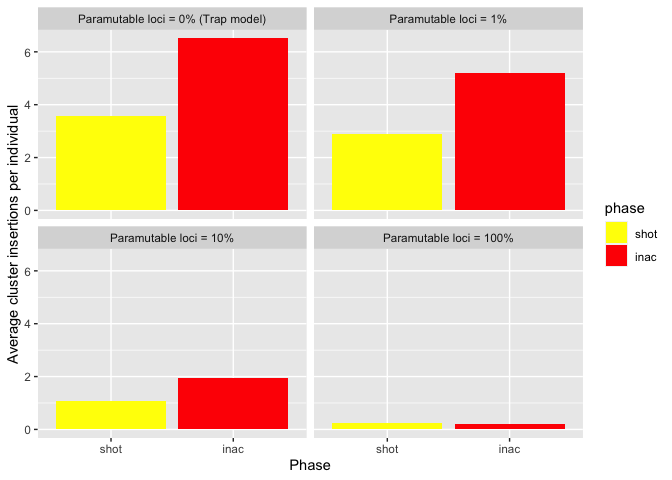
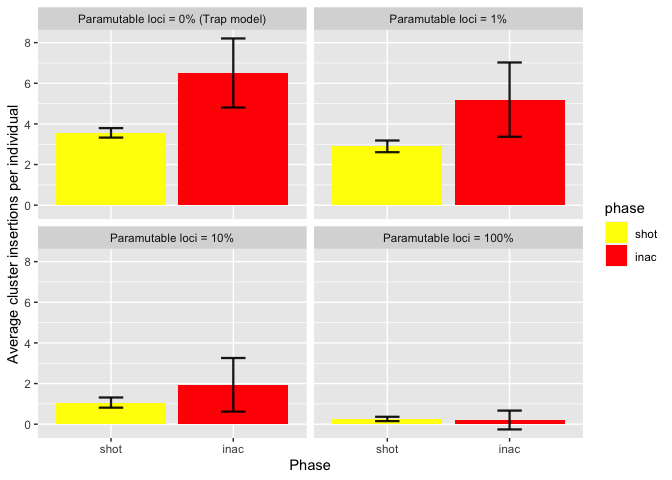
Add files via upload

diff --git a/Simulation/2022_08_24_Simulation_1_2_Phases.md b/Simulation/2022_08_24_Simulation_1_2_Phases.md
@@ -91,9 +91,15 @@ clus_ins <- aggregate(x = df2$fwcli,
                       FUN = "mean")
 names(clus_ins) <- c("phase", "sampleid", "fraccli")
 
+clus_ins_sd <- aggregate(x = df2$fwcli,
+                      by = list(df2$phase, df2$sampleid),
+                      FUN = "sd")
+names(clus_ins_sd) <- c("phase", "sampleid", "sd")
+
 
 g <- ggplot(clus_ins, aes(x=phase, y=fraccli, fill = phase)) + 
   geom_bar(stat = "identity") +
+  geom_errorbar( aes(x=phase, ymin=fraccli-clus_ins_sd$sd, ymax=fraccli+clus_ins_sd$sd), width=0.2, colour="black", alpha=0.9, size=0.8)+
   ylab("Fraction of individuals with a cluster insertion")+
   xlab("Phase")+
   scale_fill_manual(values = c("yellow", "red"))+
@@ -114,9 +120,14 @@ clus_ins_2 <- aggregate(x = df2$avcli,
                       FUN = "mean")
 names(clus_ins_2) <- c("phase", "sampleid", "avcli")
 
+clus_ins_sd_2 <- aggregate(x = df2$avcli,
+                         by = list(df2$phase, df2$sampleid),
+                         FUN = "sd")
+names(clus_ins_sd_2) <- c("phase", "sampleid", "sd")
 
 g2 <- ggplot(clus_ins_2, aes(x=phase, y=avcli, fill = phase)) + 
   geom_bar(stat = "identity") +
+  geom_errorbar( aes(x=phase, ymin=avcli-clus_ins_sd_2$sd, ymax=avcli+clus_ins_sd_2$sd), width=0.2, colour="black", alpha=0.9, size=0.8)+
   ylab("Average cluster insertions per individual")+
   xlab("Phase")+
   scale_fill_manual(values = c("yellow", "red"))+
